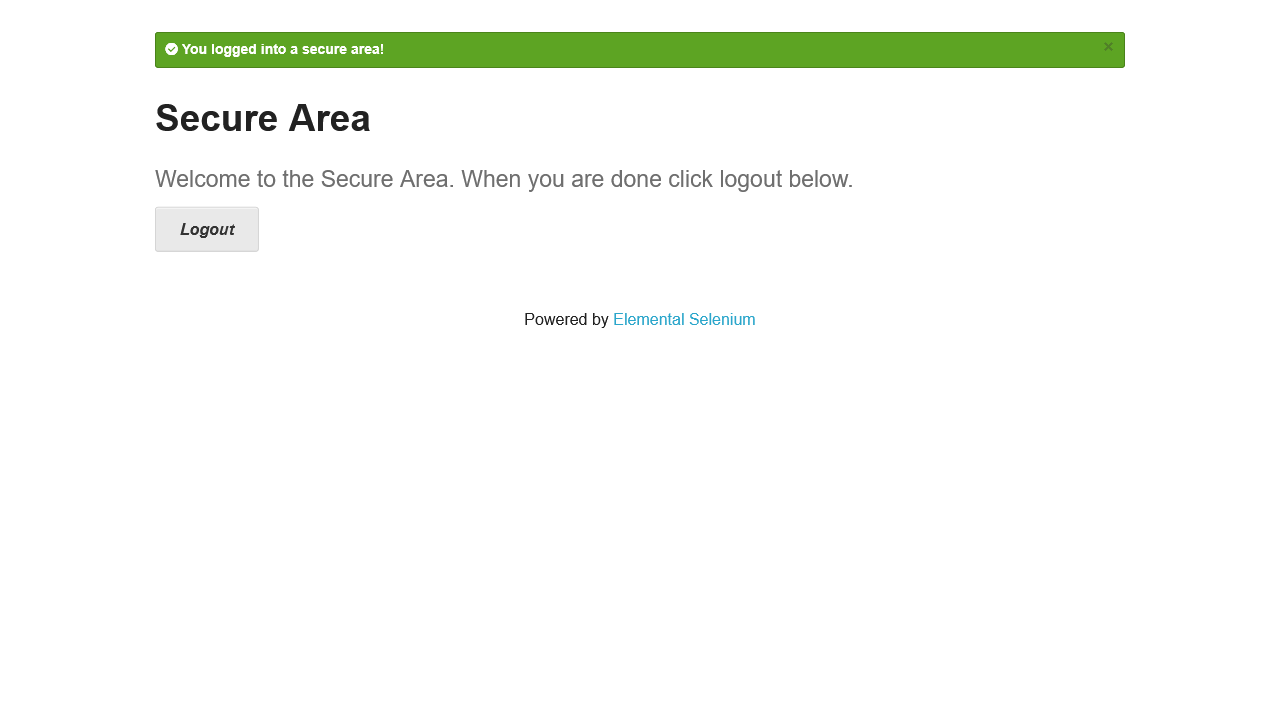
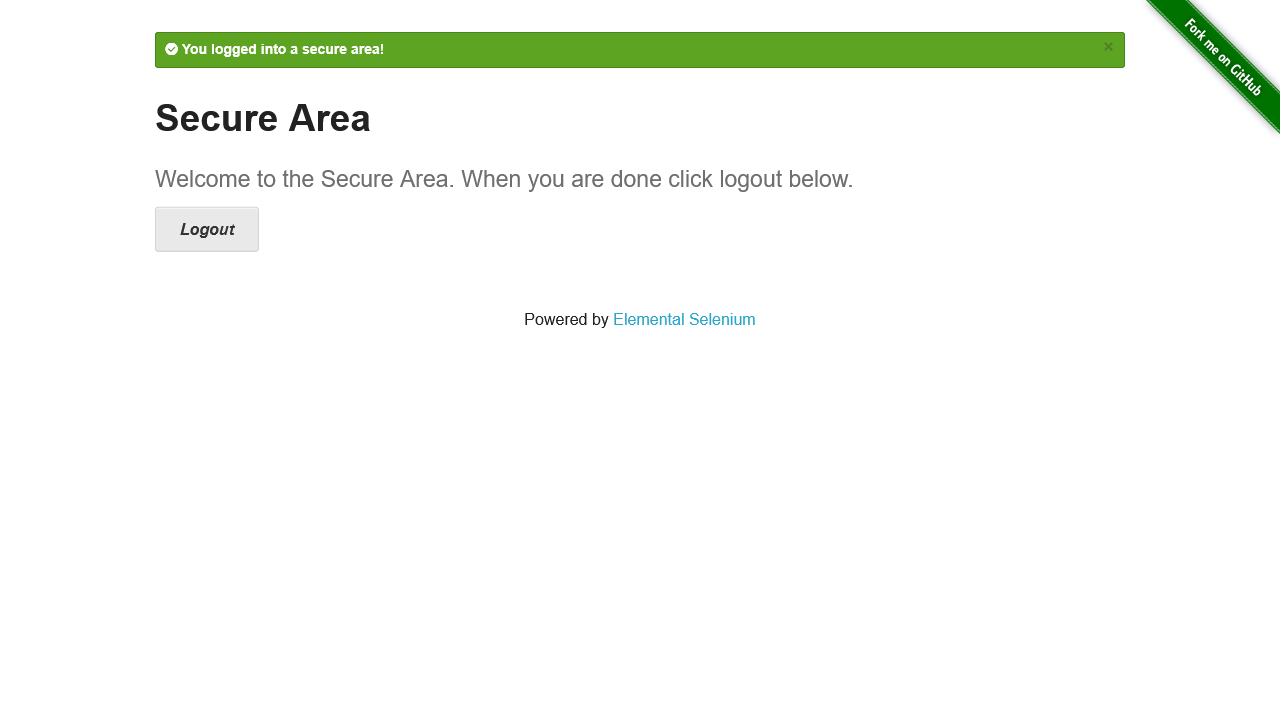
📊 Nexus Report Deploy: evidencia y dashboard — 2026-06-18T20:04:12.470Z

Changed region(s): [[0.875, 0.0, 1.0, 0.1833]]

diff --git a/bug-reports/webkit/TC01_register_user_20260618_144819/report.md b/bug-reports/webkit/TC01_register_user_20260618_144819/report.md
@@ -1,0 +1,45 @@
+# 🚨 Incident Forensic Report: TC01 - Register user
+
+## 📊 Executive Summary
+- **Test Case ID:** TC01 
+- **Browser Engine:** webkit
+- **Timestamp (UTC):** 2026-06-18T19:48:19.808Z
+- **Status:** FAILED ❌
+- **Severity:** HIGH · **Clasificación:** SECURITY_COMPLIANCE_BREACH
+
+## 🔍 Context of the Failure (The "Why")
+**System Error Triggered:**
+```text
+Error: [2mexpect([22m[31mlocator[39m[2m).[22mtoContainText[2m([22m[32mexpected[39m[2m)[22m failed
+
+Locator: locator('b')
+Expected substring: [32m"Account Created!"[39m
+Error: strict mode violation: locator('b') resolved to 2 elements:
+    1) <b>Enter Account Information</b> aka getByText('Enter Account Information')
+    2) <b>Address Information</b> aka getByText('Address Information')
+
+Call log:
+[2m  - Expect "toContainText" with timeout 15000ms[22m
+[2m  - waiting for locator('b')[22m
+
+```
+
+## 📍 Point of Failure (Stack Trace)
+```javascript
+Error: [2mexpect([22m[31mlocator[39m[2m).[22mtoContainText[2m([22m[32mexpected[39m[2m)[22m failed
+
+Locator: locator('b')
+Expected substring: [32m"Account Created!"[39m
+Error: strict mode violation: locator('b') resolved to 2 elements:
+    1) <b>Enter Account Information</b> aka getByText('Enter Account Information')
+```
+
+## 🛡️ Security & Network Telemetry
+- **Network Errors (400+):** 0 endpoints failed during execution.
+- **Missing CSP Headers:** 118 assets loaded without Content-Security-Policy.
+
+## 📁 Attached Evidence
+- **Visual Capture:** `screenshot.png`
+- **Forensic Video:** `video.webm`
+- **Raw Telemetry:** `telemetry.json`
+- **Folder:** `evidence/bug-reports/webkit/TC01_register_user_*/`